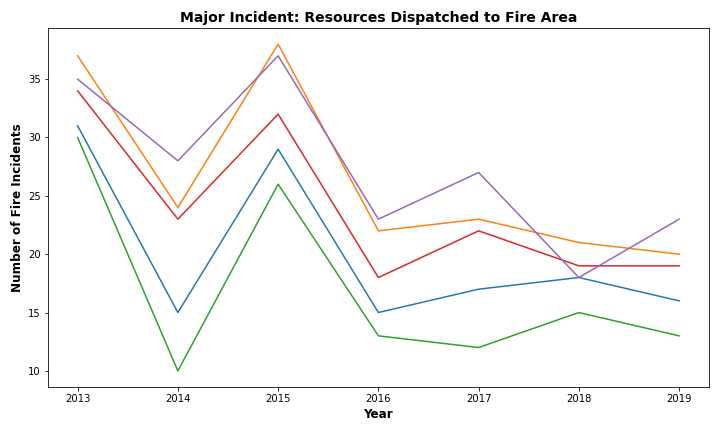
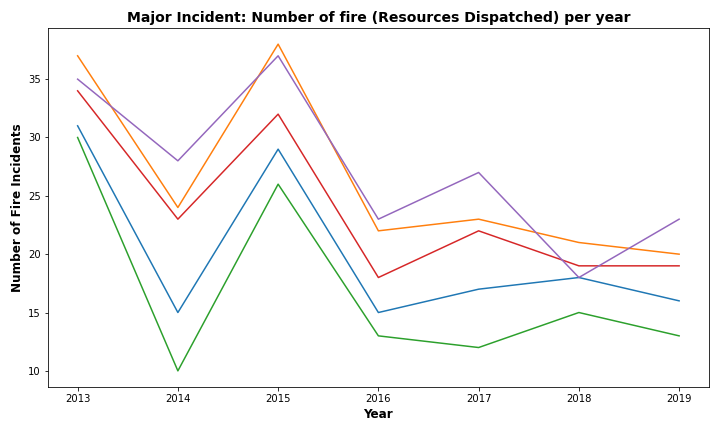
Further Analysis

Changed region(s): [[0.1528, 0.0301, 0.8861, 0.0602]]

diff --git a/README.md b/README.md
@@ -22,6 +22,7 @@ Our project is to evaluate and analyze California Wildfire Data based on a Calif
 
 - Data incompletion which will be excluded might cause an inaccurate conclusion.
 - The definition of major fire incident in the dataset which indicates by true/false differs from California Fire Department which states that major fire incident is more than 10 arces. The group decision was using the information based on the dataset because we counldn't find the evidence to support if the file is uncredible.
+- When applying correlation calculation method to the entire dataset, it shows that the dataset have a strong correlation among variabilities. However, the amount of data that generate the strong correlation is dramatically low.     
 
 ## Analysis
 
@@ -91,7 +92,7 @@ When examining the number of fire incidents by month, for both the number of inc
 </p>
 
 ---
-### California resources deployed
+### California Fire-Fighting Resources Deployed
 
 ***How do counties compare when measuring the severity of wildfire events, loss of life, and fire-fighting equipment deployed?***
 
@@ -110,6 +111,24 @@ When examining the number of fire incidents by month, for both the number of inc
 
 <p align="center">
   <img src="Images/Bar_Chart_Equipment_Top_Five_Counties.png">
+</p>
+
+---
+***How are fire-fighting resources and personnel dispatched to fire incidents over the period between 2013-2019 and is there a difference between major and minor incidents?***
+
+- Two different measures were used to study resource allocation by year: 
+* 1) How many individual major fire incidents per year had resources allocated to combat them?
+* 2) How many resources in total were dispatched to fight major incident fires per year? 
+* In the first figure below, 2015 had the highest number of major incident fires that had resources dispatched to fight the fires while 2018 had the lowest number. However, in the second figure below, 2018 had the highest total usage of fire-fighting resources. This suggests that one or a few major incident fires in 2018 received far more resources than all previous fires from the 2013-2019 dataset.
+
+- There is a noticeable difference in how all fire-fighting resources were allocated to fight fires from 2013-2018 with a shift occurring in 2019. Previously, fire-fighting equipment and personnel were only sent to major fire incidents, but beginning in 2019, resources and personnel were also sent to minor fires.
+
+<p align="center">
+  <img src="Images/mj_resources_no_fire.png">
+</p>
+
+<p align="center">
+  <img src="Images/no_resources_fire.png">
 </p>
 
 ---
@@ -144,19 +163,42 @@ When examining the number of fire incidents by month, for both the number of inc
 
 ### What will look like in the world map?
 
+**All California Fire Incident**
+
 <p align="center">
   <img src="Images/major_heatmap_10.png">
 </p>
 
 *Note:* The red circle represents fire incidents between 2013 - 2019. The size of circle represents the acreage of burn.
 
+**Counties that have zero fire incident**
+
+<p align="center">
+  <img src="Images/minor_fire_map.png.png">
+</p>
+
+---
+## Futher Analysis
+
+- Including meteorological factors from OpenWeather API; temperature, wind speed and humidity, into analysis to discover the correlation of these factors and the fire occurrence.
+
+- Compared to the county that has no fire incident and county that has the highest number of fire incidents and acreage of burned area.
+
+- The relationship between acreage burned by county and county size (both area and population). The county size was not available in the dataset utilized for our project and would need to be imported from other sources. However, leveraging this information in conjunction with this dataset would likely reveal more thought-provoking trends about California wildfires and successful fire-fighting tactics.
+
+-  The year 2018 for the Camp Fire event, plus the Mendocino Complex Fire, which also occurred in 2018 and was until recently the largest wildfire in CA history. Focusing on the data of these events, including the equipment used, the personnel involved, and add API calls to Open Weather for the weather surrounding these events as well historical weather data for the counties involved.
+
 ---
 ## Contributor
 
-[Alessandro Travaglia](https://github.com/atravaglia) : atravaglia@gmail.com \n
-[Atcharaporn Puccini](https://github.com/abpuccini): b.atcharaporn@gmail.com \n
-[Juliann Pezzullo](https://github.com/jump8621): jump8621@gmail.com \n
-[Lee Prout](https://github.com/LeeProut): wleeprout@gmail.com \n
+[Alessandro Travaglia](https://github.com/atravaglia) : atravaglia@gmail.com
+
+[Atcharaporn Puccini](https://github.com/abpuccini): b.atcharaporn@gmail.com
+
+[Juliann Pezzullo](https://github.com/jump8621): jump8621@gmail.com
+
+[Lee Prout](https://github.com/LeeProut): wleeprout@gmail.com
+
 [Lydia Field](https://github.com/lydiapf): lydia291@gmail.com
 
 UNC Boot Camp 2020
